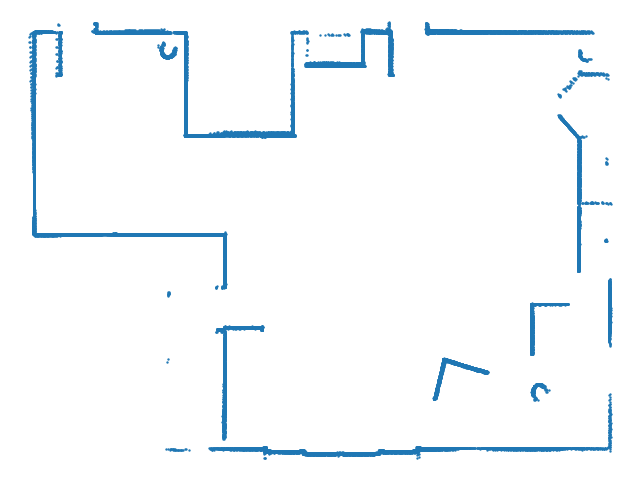
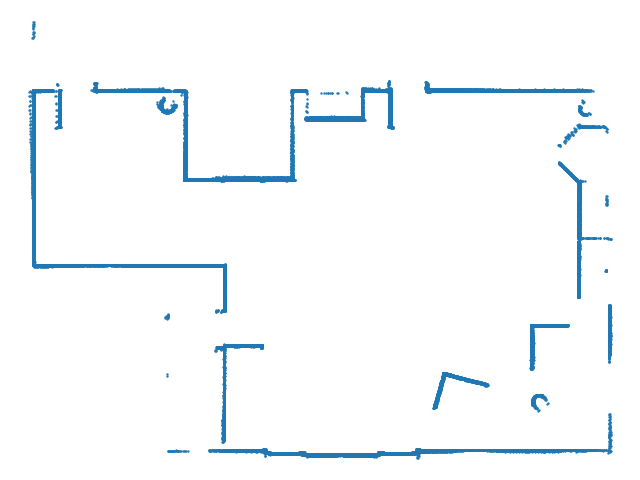
houghp

diff --git a/explore_laser.py b/explore_laser.py
@@ -132,8 +132,8 @@ def local2global(x_local, y_local, x, y, theta):
 					 [0,									 0, 					 1]]
 	T = np.matmul(T_trans, T_rot)
 
-	pos = np.matmul(T, np.transpose([x_local, y_local,1.0]))
-	return pos
+	pos = np.matmul(T, np.transpose([x_local, y_local,1.0])) # x_, y_, 1
+	return pos # pontosGlobal[j] = local2global(lrf[i],lrf[i+1],coord_robo[0],coord_robo[1],angulo)
 
 
 def convert_laser(dist):
@@ -162,7 +162,6 @@ def convert_laser(dist):
 			x_global.append(pos[0])
 			y_global.append(pos[1])
 	return [x_global, y_global]
-	
 
 def get_angulo_alvo(x_robo, y_robo, ang_robo, x_alvo, y_alvo):
 	tolerancia = 0.2
@@ -184,8 +183,7 @@ def get_pos_atual(handle):
 def get_ang_atual(handle):
 	code, ang = vrep.simxGetObjectOrientation(clientID, handle, -1, vrep.simx_opmode_streaming)
 	while(code != vrep.simx_return_ok):
-		code, ang = vrep.simxGetObjectOrientation(clientID, handle, -1, vrep.simx_opmode_streaming)
-		
+		code, ang = vrep.simxGetObjectOrientation(clientID, handle, -1, vrep.simx_opmode_streaming)		
 	return ang[2]
 
 def virar(angulo):
@@ -308,7 +306,6 @@ def plotar_mapa():
 	ax = plt.Axes(fig, [0., 0., 1., 1.])
 	ax.set_axis_off()
 	fig.add_axes(ax)
-	#ax.imshow(your_image, aspect='normal')
 	plt.scatter(pontos_x, pontos_y, s=0.5)
 	fig.savefig('points_.png')
 
@@ -320,22 +317,13 @@ def plotar_mapa():
 	image = cv2.imread('points_.png',0)
 	image = cv2.Canny(image, 50, 100, None, 3)
 	cv2.imwrite('canny_.png',image)
-	lines = cv2.HoughLinesP(image, 1, np.pi/180, 50, 50, 20)[0]
-	print(len(lines))
+	lines = cv2.HoughLinesP(image, 1, np.pi/180, 50, 100, 10)[0]
+
 	destine = np.full((image.shape[0],image.shape[1],3),255.0)
 	if lines is not None:
 		for x1,y1,x2,y2 in lines:
 			cv2.line(destine,(x1,y1),(x2,y2),(255,0,0),1)
-		#for l in lines:
-			#rho = l[0]
-			#theta = l[1]
-			#a = math.cos(theta)
-			#b = math.sin(theta)
-			#x0 = a * rho
-			#y0 = b * rho
-			#pt1 = (int(x0 + 1000*(-b)), int(y0 + 1000*(a)))
-			#pt2 = (int(x0 - 1000*(-b)), int(y0 - 1000*(a)))
-			#cv2.line(destine, pt1, pt2, (255,0,0), 1)
+
 	cv2.imwrite('hough_lines_map.jpg',destine)
 
 display = False

diff --git a/localization.py b/localization.py
@@ -39,7 +39,7 @@ class localizacao(Thread):
 			gyro_z = vrep.simxGetFloatSignal(clientID,'gyroZ', vrep.simx_opmode_streaming)
 			data = [gyro_x, gyro_y, gyro_z]
 		return data
-		
+	
 	def update(self):
 		global thetaDir, thetaEsq, thetaDirAnt, thetaEsqAnt, xpos, ypos, theta, Dr, Dl
 

diff --git a/navigate.py b/navigate.py
@@ -162,3 +162,4 @@ while vrep.simxGetConnectionId(clientID) != -1:
   else:
     vrep.simxSetJointTargetVelocity(clientID, handle_motor_esq, 0.60*vLeft, vrep.simx_opmode_streaming)
     vrep.simxSetJointTargetVelocity(clientID, handle_motor_dir, 0.60*vRight, vrep.simx_opmode_streaming)
+
